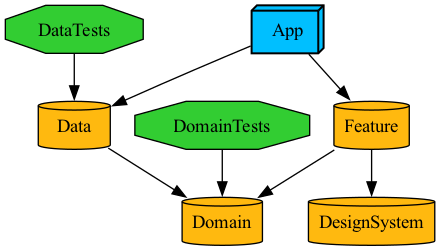
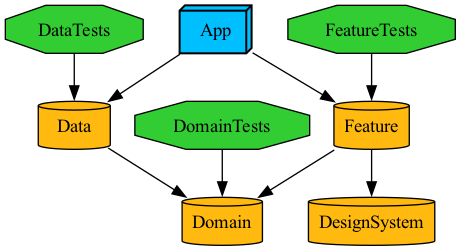
feat(designsystem): 컬러·타이포·간격 토큰과 공통 컴포넌트

diff --git a/Modules/Feature/Sources/Detail/DetailView.swift b/Modules/Feature/Sources/Detail/DetailView.swift
@@ -9,6 +9,7 @@
 import SwiftUI
 import MapKit
 import Domain
+import DesignSystem
 
 public struct DetailView: View {
     @State private var viewModel: DetailViewModel
@@ -19,7 +20,7 @@ public struct DetailView: View {
 
     public var body: some View {
         ScrollView {
-            VStack(alignment: .leading, spacing: 20) {
+            VStack(alignment: .leading, spacing: DSSpacing.xl) {
                 header
                 Divider()
                 holdingsSection
@@ -34,29 +35,23 @@ public struct DetailView: View {
     // MARK: - 헤더 (표지 + 서지정보 + 소개)
 
     private var header: some View {
-        VStack(alignment: .leading, spacing: 16) {
-            HStack(alignment: .top, spacing: 16) {
-                AsyncImage(url: viewModel.book.coverURL) { image in
-                    image.resizable().scaledToFit()
-                } placeholder: {
-                    RoundedRectangle(cornerRadius: 6).fill(.quaternary)
-                }
-                .frame(width: 100, height: 140)
-                .clipShape(RoundedRectangle(cornerRadius: 6))
+        VStack(alignment: .leading, spacing: DSSpacing.lg) {
+            HStack(alignment: .top, spacing: DSSpacing.lg) {
+                BookCover(url: viewModel.book.coverURL, width: 100, height: 140)
 
-                VStack(alignment: .leading, spacing: 6) {
-                    Text(viewModel.book.title).font(.title3).bold()
-                    Text(viewModel.book.author).font(.subheadline).foregroundStyle(.secondary)
-                    Text(viewModel.book.publisher).font(.footnote).foregroundStyle(.secondary)
+                VStack(alignment: .leading, spacing: DSSpacing.xs) {
+                    Text(viewModel.book.title).font(DSFont.detailTitle)
+                    Text(viewModel.book.author).font(DSFont.author).foregroundStyle(DSColor.secondaryText)
+                    Text(viewModel.book.publisher).font(DSFont.meta).foregroundStyle(DSColor.secondaryText)
                     if let year = viewModel.book.publicationYear {
-                        Text("\(year)년").font(.footnote).foregroundStyle(.secondary)
+                        Text("\(year)년").font(DSFont.meta).foregroundStyle(DSColor.secondaryText)
                     }
                 }
                 Spacer(minLength: 0)
             }
 
             if let description = viewModel.book.bookDescription, !description.isEmpty {
-                Text(description).font(.callout)
+                Text(description).font(DSFont.body)
             }
         }
     }
@@ -68,7 +63,7 @@ public struct DetailView: View {
         switch viewModel.state {
         case .loading:
             HStack { Spacer(); ProgressView("소장 도서관 찾는 중"); Spacer() }
-                .padding(.vertical, 24)
+                .padding(.vertical, DSSpacing.xl)
         case .failed(let message):
             ContentUnavailableView(message, systemImage: "exclamationmark.triangle")
         case .loaded(let holdings) where holdings.isEmpty:
@@ -76,8 +71,8 @@ public struct DetailView: View {
                                    systemImage: "books.vertical",
                                    description: Text("이 지역 도서관에는 소장 정보가 없어요."))
         case .loaded(let holdings):
-            VStack(alignment: .leading, spacing: 12) {
-                Text("소장 도서관 \(holdings.count)곳").font(.headline)
+            VStack(alignment: .leading, spacing: DSSpacing.md) {
+                Text("소장 도서관 \(holdings.count)곳").font(DSFont.sectionTitle)
                 HoldingsMap(holdings: holdings)
                 ForEach(holdings) { holding in
                     HoldingRow(holding: holding)
@@ -102,12 +97,12 @@ private struct HoldingsMap: View {
             ForEach(pinned) { holding in
                 if let coordinate = holding.library.coordinate {
                     Marker(holding.library.name, coordinate: coordinate)
-                        .tint(holding.isLoanalbe ? .green : .gray)
+                        .tint(holding.isLoanalbe ? DSColor.loanable : DSColor.unavailable)
                 }
             }
         }
         .frame(height: 220)
-        .clipShape(RoundedRectangle(cornerRadius: 12))
+        .clipShape(RoundedRectangle(cornerRadius: DSRadius.lg))
     }
 }
 
@@ -117,35 +112,22 @@ private struct HoldingRow: View {
     let holding: LibraryHolding
 
     var body: some View {
-        VStack(alignment: .leading, spacing: 4) {
+        VStack(alignment: .leading, spacing: DSSpacing.xs) {
             HStack {
-                Text(holding.library.name).font(.subheadline).bold()
+                Text(holding.library.name).font(DSFont.author).bold()
                 Spacer()
                 LoanBadge(isLoanable: holding.isLoanalbe)
             }
-            Text(holding.library.address).font(.footnote).foregroundStyle(.secondary)
+            Text(holding.library.address).font(DSFont.meta).foregroundStyle(DSColor.secondaryText)
             if let operatingTime = holding.library.operatingTime, operatingTime != "-" {
                 Label(operatingTime, systemImage: "clock")
-                    .font(.caption).foregroundStyle(.secondary)
+                    .font(DSFont.caption).foregroundStyle(DSColor.secondaryText)
             }
             if let closed = holding.library.closed, !closed.isEmpty {
                 Label(closed, systemImage: "calendar.badge.exclamationmark")
-                    .font(.caption).foregroundStyle(.orange)
+                    .font(DSFont.caption).foregroundStyle(DSColor.warning)
             }
         }
-        .padding(.vertical, 4)
-    }
-}
-
-private struct LoanBadge: View {
-    let isLoanable: Bool
-
-    var body: some View {
-        Text(isLoanable ? "대출 가능" : "대출 중")
-            .font(.caption).bold()
-            .padding(.horizontal, 8).padding(.vertical, 4)
-            .background(isLoanable ? Color.green.opacity(0.15) : Color.gray.opacity(0.15))
-            .foregroundStyle(isLoanable ? .green : .secondary)
-            .clipShape(Capsule())
+        .padding(.vertical, DSSpacing.xs)
     }
 }

diff --git a/Modules/Feature/Sources/Search/SearchView.swift b/Modules/Feature/Sources/Search/SearchView.swift
@@ -8,6 +8,7 @@
 
 import SwiftUI
 import Domain
+import DesignSystem
 
 public struct SearchView: View {
     @State private var viewModel: SearchViewModel
@@ -31,6 +32,7 @@ public struct SearchView: View {
                     DetailView(viewModel: makeDetailViewModel(book))
                 }
         }
+        .tint(DSColor.accent)
     }
 
     @ViewBuilder
@@ -61,25 +63,19 @@ private struct BookRow: View {
     let book: Book
 
     var body: some View {
-        HStack(spacing: 12) {
-            AsyncImage(url: book.coverURL) { image in
-                image.resizable().scaledToFit()
-            } placeholder: {
-                RoundedRectangle(cornerRadius: 4).fill(.quaternary)
-            }
-            .frame(width: 44, height: 62)
-            .clipShape(RoundedRectangle(cornerRadius: 4))
+        HStack(spacing: DSSpacing.md) {
+            BookCover(url: book.coverURL, width: 44, height: 62)
 
-            VStack(alignment: .leading, spacing: 4) {
+            VStack(alignment: .leading, spacing: DSSpacing.xs) {
                 Text(book.title)
-                    .font(.headline)
+                    .font(DSFont.bookTitle)
                     .lineLimit(2)
                 Text(book.author)
-                    .font(.subheadline)
-                    .foregroundStyle(.secondary)
+                    .font(DSFont.author)
+                    .foregroundStyle(DSColor.secondaryText)
                     .lineLimit(1)
             }
         }
-        .padding(.vertical, 4)
+        .padding(.vertical, DSSpacing.xs)
     }
 }

diff --git a/Modules/DesignSystem/Sources/Components/BookCover.swift b/Modules/DesignSystem/Sources/Components/BookCover.swift
@@ -1,0 +1,33 @@
+//
+//  BookCover.swift
+//  DesignSystem
+//
+//  Created by SEUNGSOO HAN on 7/27/26.
+//  Copyright © 2026 xngsoo. All rights reserved.
+//
+
+import SwiftUI
+
+/// 표지 이미지. 로딩 전/실패 시 placeholder를 보여준다.
+/// Domain 타입을 모르고 URL만 받으므로 DesignSystem에 둘 수 있다.
+public struct BookCover: View {
+    private let url: URL?
+    private let width: CGFloat
+    private let height: CGFloat
+
+    public init(url: URL?, width: CGFloat, height: CGFloat) {
+        self.url = url
+        self.width = width
+        self.height = height
+    }
+
+    public var body: some View {
+        AsyncImage(url: url) { image in
+            image.resizable().scaledToFit()
+        } placeholder: {
+            RoundedRectangle(cornerRadius: DSRadius.md).fill(.quaternary)
+        }
+        .frame(width: width, height: height)
+        .clipShape(RoundedRectangle(cornerRadius: DSRadius.md))
+    }
+}

diff --git a/Modules/DesignSystem/Sources/Tokens/DSColor.swift b/Modules/DesignSystem/Sources/Tokens/DSColor.swift
@@ -1,0 +1,26 @@
+//
+//  DSColor.swift
+//  DesignSystem
+//
+//  Created by SEUNGSOO HAN on 7/27/26.
+//  Copyright © 2026 xngsoo. All rights reserved.
+//
+
+import SwiftUI
+
+/// 의미 기반 색 토큰. 뷰는 .green/.orange 같은 원색이 아니라 여기 이름으로만 접근한다.
+/// 시스템 semantic 색을 기반으로 해 라이트/다크 모드에 자동 대응한다.
+public enum DSColor {
+    /// 책나루 브랜드 액센트 (딥 틸)
+    public static let accent = Color(red: 0.11, green: 0.53, blue: 0.53)
+    /// 대출 가능
+    public static let loanable = Color.green
+    /// 대출 중 / 좌표 없음 등 비활성
+    public static let unavailable = Color.secondary
+    /// 휴관일 등 주의 강조
+    public static let warning = Color.orange
+    /// 카드/셀 배경
+    public static let card = Color(.secondarySystemBackground)
+    /// 보조 텍스트
+    public static let secondaryText = Color.secondary
+}

diff --git a/Modules/DesignSystem/Sources/Components/LoanBadge.swift b/Modules/DesignSystem/Sources/Components/LoanBadge.swift
@@ -1,0 +1,28 @@
+//
+//  LoanBadge.swift
+//  DesignSystem
+//
+//  Created by SEUNGSOO HAN on 7/27/26.
+//  Copyright © 2026 xngsoo. All rights reserved.
+//
+
+import SwiftUI
+
+/// 대출 가능/중 배지. Bool만 받으므로 Domain에 의존하지 않는다.
+public struct LoanBadge: View {
+    private let isLoanable: Bool
+
+    public init(isLoanable: Bool) {
+        self.isLoanable = isLoanable
+    }
+
+    public var body: some View {
+        Text(isLoanable ? "대출 가능" : "대출 중")
+            .font(DSFont.badge)
+            .padding(.horizontal, DSSpacing.sm)
+            .padding(.vertical, DSSpacing.xs)
+            .background((isLoanable ? DSColor.loanable : DSColor.unavailable).opacity(0.15))
+            .foregroundStyle(isLoanable ? DSColor.loanable : DSColor.secondaryText)
+            .clipShape(Capsule())
+    }
+}

diff --git a/Modules/DesignSystem/Sources/Tokens/DSFont.swift b/Modules/DesignSystem/Sources/Tokens/DSFont.swift
@@ -1,0 +1,21 @@
+//
+//  DSFont.swift
+//  DesignSystem
+//
+//  Created by SEUNGSOO HAN on 7/27/26.
+//  Copyright © 2026 xngsoo. All rights reserved.
+//
+
+import SwiftUI
+
+/// 타이포 토큰. Dynamic Type에 반응하도록 시스템 텍스트 스타일 기반으로 정의한다.
+public enum DSFont {
+    public static let detailTitle = Font.title3.weight(.bold)
+    public static let sectionTitle = Font.headline
+    public static let bookTitle = Font.headline
+    public static let author = Font.subheadline
+    public static let body = Font.callout
+    public static let meta = Font.footnote
+    public static let caption = Font.caption
+    public static let badge = Font.caption.weight(.bold)
+}

diff --git a/Modules/DesignSystem/Sources/Tokens/DSLayout.swift b/Modules/DesignSystem/Sources/Tokens/DSLayout.swift
@@ -1,0 +1,25 @@
+//
+//  DSLayout.swift
+//  DesignSystem
+//
+//  Created by SEUNGSOO HAN on 7/27/26.
+//  Copyright © 2026 xngsoo. All rights reserved.
+//
+
+import SwiftUI
+
+/// 간격 토큰 (4pt 그리드)
+public enum DSSpacing {
+    public static let xs: CGFloat = 4
+    public static let sm: CGFloat = 8
+    public static let md: CGFloat = 12
+    public static let lg: CGFloat = 16
+    public static let xl: CGFloat = 20
+}
+
+/// 모서리 반경 토큰
+public enum DSRadius {
+    public static let sm: CGFloat = 4
+    public static let md: CGFloat = 6
+    public static let lg: CGFloat = 12
+}
